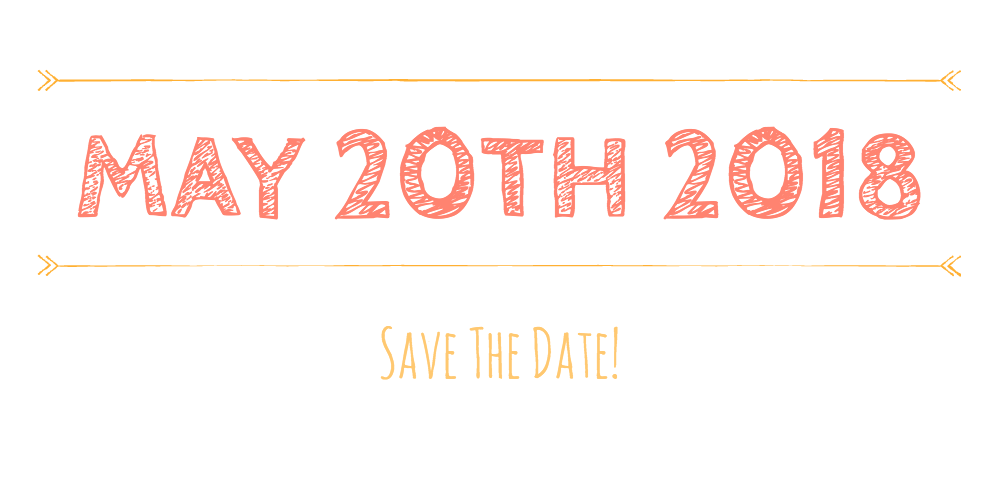
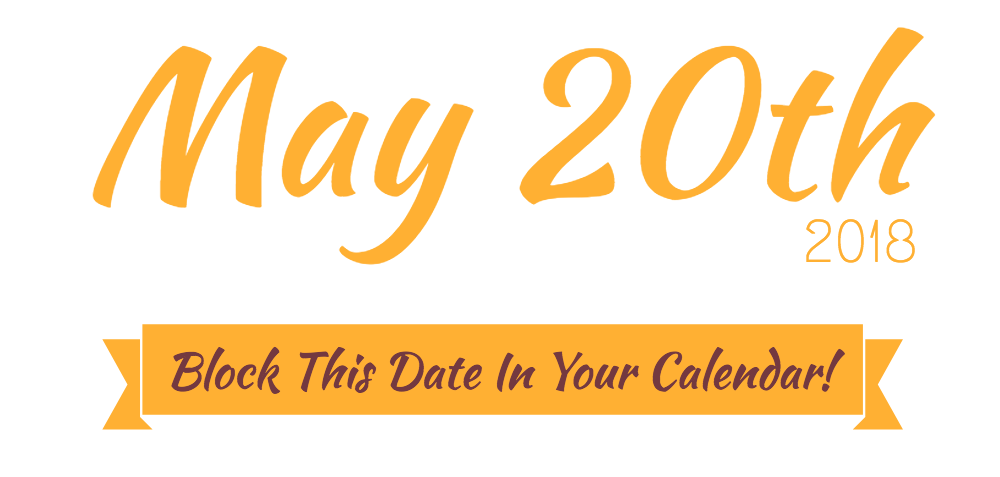
Upload New Graphics.

diff --git a/index.html b/index.html
@@ -87,8 +87,7 @@ gtag('config', 'UA-59933281-6');
                     <img src="title.png" style="width:100%;">
                     <br><br><br>
                     <p>We're working hard to wrap up all the details regarding the wedding.</p>
-                    <p>All items on the site are currently for sampling purposes, any and everything can be changed.</p>
-                    <p>This is just to give you an idea.</p>
+                    <p>Looking for inputs.</p>
                 </div>
   <!--              <div class="col-md-6">
                   <img src="img/shikhar.jpg" style="width:200px;">
@@ -106,8 +105,10 @@ gtag('config', 'UA-59933281-6');
         <div class="container">
             <div class="row">
                 <div class="col-lg-12">
-                    <h1>The Date</h1>
-                    <img src="date.png" style="width:100%;">
+                  <br><br><br><br>
+                    <img src="date.png" style="width:70%;">
+                    <br>
+                    <a href="https://calendar.google.com/calendar/embed?src=sj79ri04erk8k2lani5587pll0%40group.calendar.google.com&ctz=Asia%2FCalcutta" target="_blank">Add to your Google Calender Now!</a>
                 </div>
             </div>
         </div>
@@ -120,8 +121,15 @@ gtag('config', 'UA-59933281-6');
             <div class="row">
                 <div class="col-lg-12">
                     <h1>The Place</h1>
+                    <div class="row">
+                      <br><br>
+                      <div class="col-md-6">
                     <h4><strong>Venue: </strong>Golden Blossom Imperial Resorts, Lucknow</h4>
-                    <p><a href="https://www.google.co.in/maps/place/Golden+Blossom+Imperial+Resorts/@26.899999,81.094311,17z/data=!3m1!4b1!4m5!3m4!1s0x39995f5d9340c473:0xd04c8676415ea074!8m2!3d26.899999!4d81.096505">Click Here</a> to start navigation.</p>
+                  </div>
+                    <div class="col-mdf-6">
+                    <h4 style="text-align:right;"><a href="https://www.google.co.in/maps/place/Golden+Blossom+Imperial+Resorts/@26.899999,81.094311,17z/data=!3m1!4b1!4m5!3m4!1s0x39995f5d9340c473:0xd04c8676415ea074!8m2!3d26.899999!4d81.096505">Click to Start Navigation!</a></h4>
+                  </div>
+                </div>
                     <iframe src="https://www.google.com/maps/embed?pb=!1m18!1m12!1m3!1d56943.498037986144!2d80.9272515850081!3d26.87273782432422!2m3!1f0!2f0!3f0!3m2!1i1024!2i768!4f13.1!3m3!1m2!1s0x0%3A0xd04c8676415ea074!2sGolden+Blossom+Imperial+Resorts!5e0!3m2!1sen!2sin!4v1516546149220" width="100%" height="300" frameborder="0" style="border:0" allowfullscreen></iframe>
                     <p><p>Full Address: Golden Blossom Imperial Resorts, Faizabad Road, Anora Gaon, Lucknow, Uttar Pradesh - 226028</p>
                 </div>
@@ -149,9 +157,13 @@ gtag('config', 'UA-59933281-6');
             <div class="row">
                 <div class="col-lg-12">
                     <h1>Photos</h1>
+                    <br>
+                    <br>
                     <p>
                       We encourage you to include #ShikharWedsNandita in any wedding photos you post on Social Media.
                     </p>
+                    <br>
+                    <br>
                     <!-- InstaWidget -->
 <a href="https://instawidget.net/v/tag/ShikharWedsNandita" id="link-60cea5eb20484cc3532a59493ca5cc48dbffdb8fe0f1a0b7833404b9e9205d1c">#ShikharWedsNandita</a>
 <script src="https://instawidget.net/js/instawidget.js?u=60cea5eb20484cc3532a59493ca5cc48dbffdb8fe0f1a0b7833404b9e9205d1c&width=450px"></script>
@@ -167,11 +179,6 @@ gtag('config', 'UA-59933281-6');
               Reach us at <a href="mailto:shikharwedsnandita@gmail.com">shikharwedsnandita@gmail.com</a> for any queries.
             </div>
           </div>
-          <div class="row">
-              <div class="col-lg-12">
-                Reach us at <a href="mailto:rsvp@ShikharWedsNandita.in">rsvp@ShikharWedsNandita.in</a> for any queries.
-              </div>
-            </div>
           </div>
       </footer
 

diff --git a/css/scrolling-nav.css b/css/scrolling-nav.css
@@ -10,7 +10,9 @@ body {
     width: 100%;
     height: 100%;
     font-family: 'Merriweather', serif;
-    background-image: url(../4.png);
+/*    background-image: url(../4.png); */
+    background-color: #733940;
+    color: white;
 }
 
 html {
@@ -37,14 +39,14 @@ of those sections to manage the look and feel of the site. */
 .intro-section {
     height: 100%;
     padding-top: 150px;
-    background: rgba(255,255,255,0.1);
+    background: rgba(255,255,255,0);
     text-align: center;
 }
 
 .theDate-section {
     height: 100%;
     padding-top: 100px;
-    background: rgba(255,255,255,0.33);
+    background: rgba(0,0,0,0.1);
     text-align: center;
 }
 
@@ -58,7 +60,7 @@ of those sections to manage the look and feel of the site. */
 .RSVP-section {
     height: 100%;
     padding-top: 100px;
-    background: rgba(255,255,255,0.33);
+    background: rgba(255,255,255,0.25);
     text-align: center;
 }
 
@@ -70,11 +72,18 @@ of those sections to manage the look and feel of the site. */
 }
 
 .weddingFooter {
-  background: rgba(255,255,255,0.7);
+  background: rgba(0,0,0,0.1);
   padding: 50px;
   text-align: center;
 
 }
 section h1 {
   text-align: center;
+}
+
+a {
+  color:#FFB033
+}
+a : hover, a : visited, a : active {
+  color:rgba(255, 176, 51, 0.75);
 }
